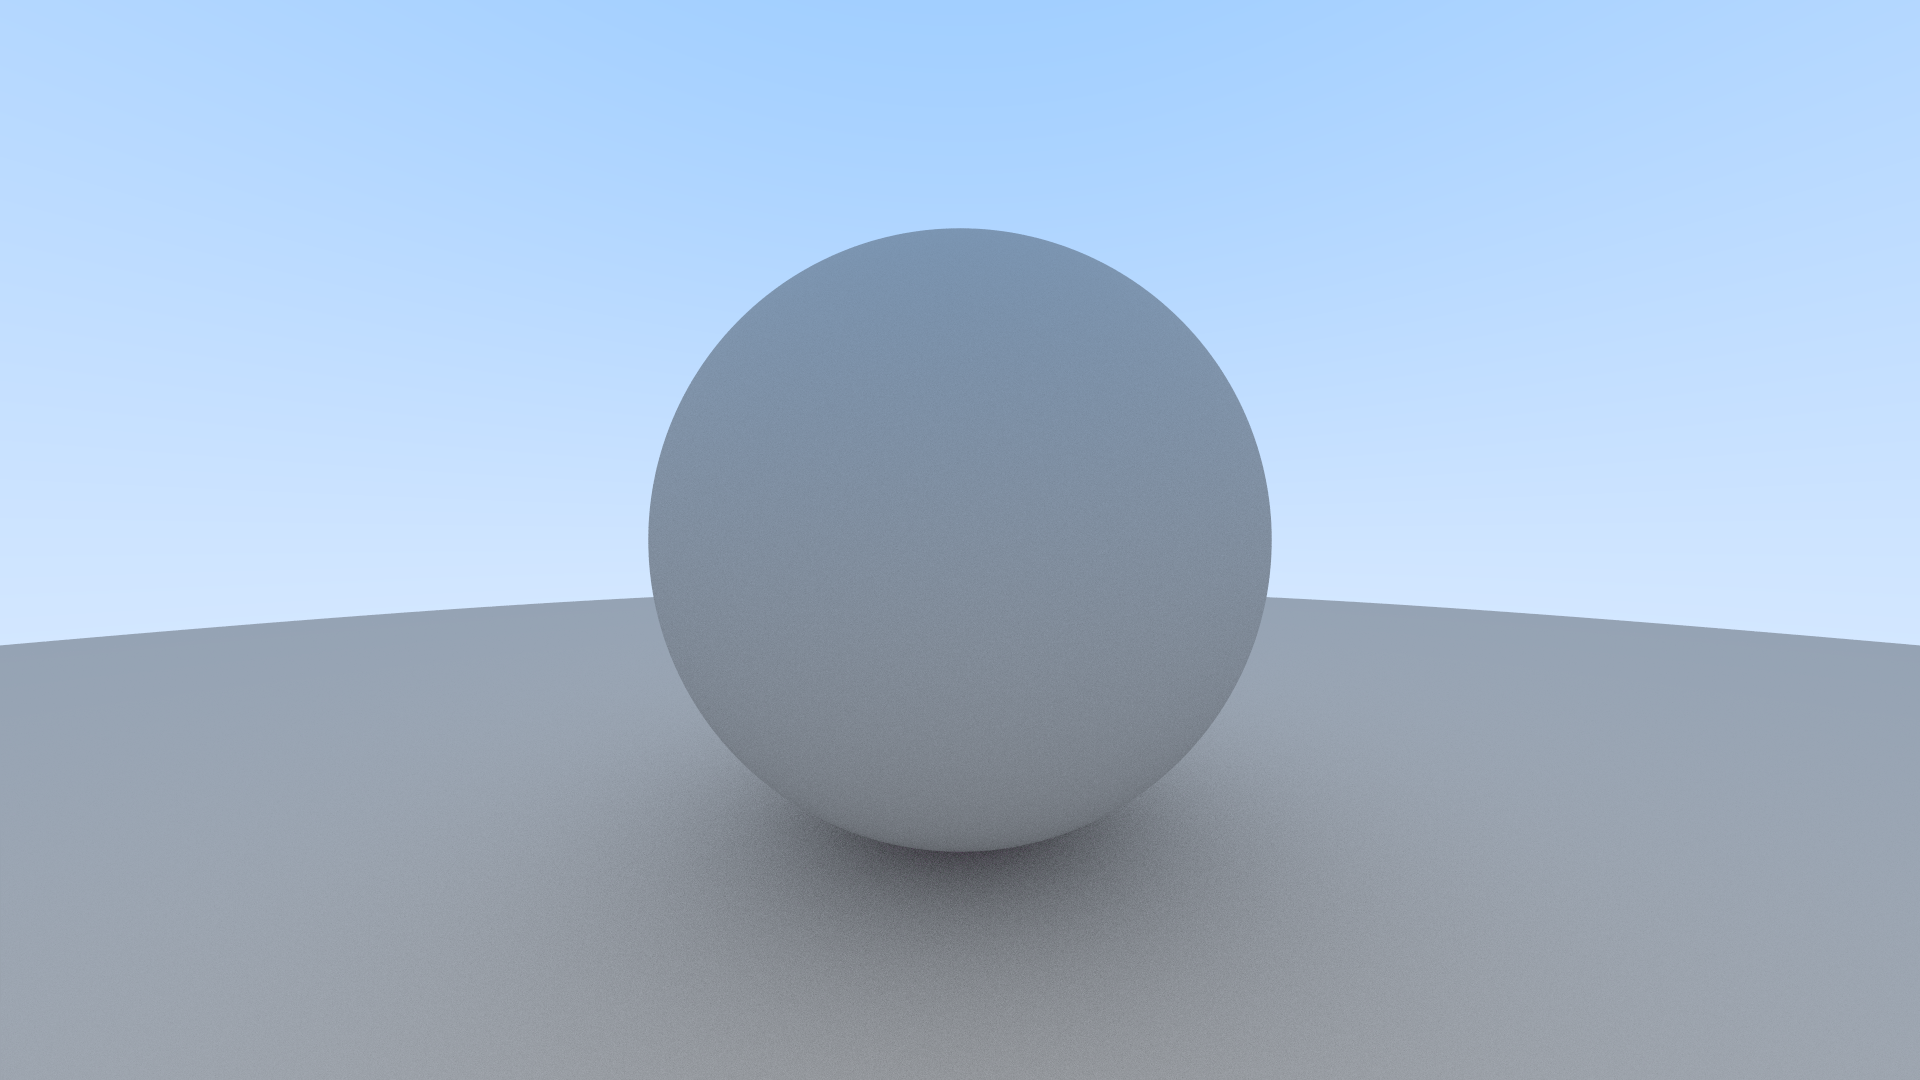
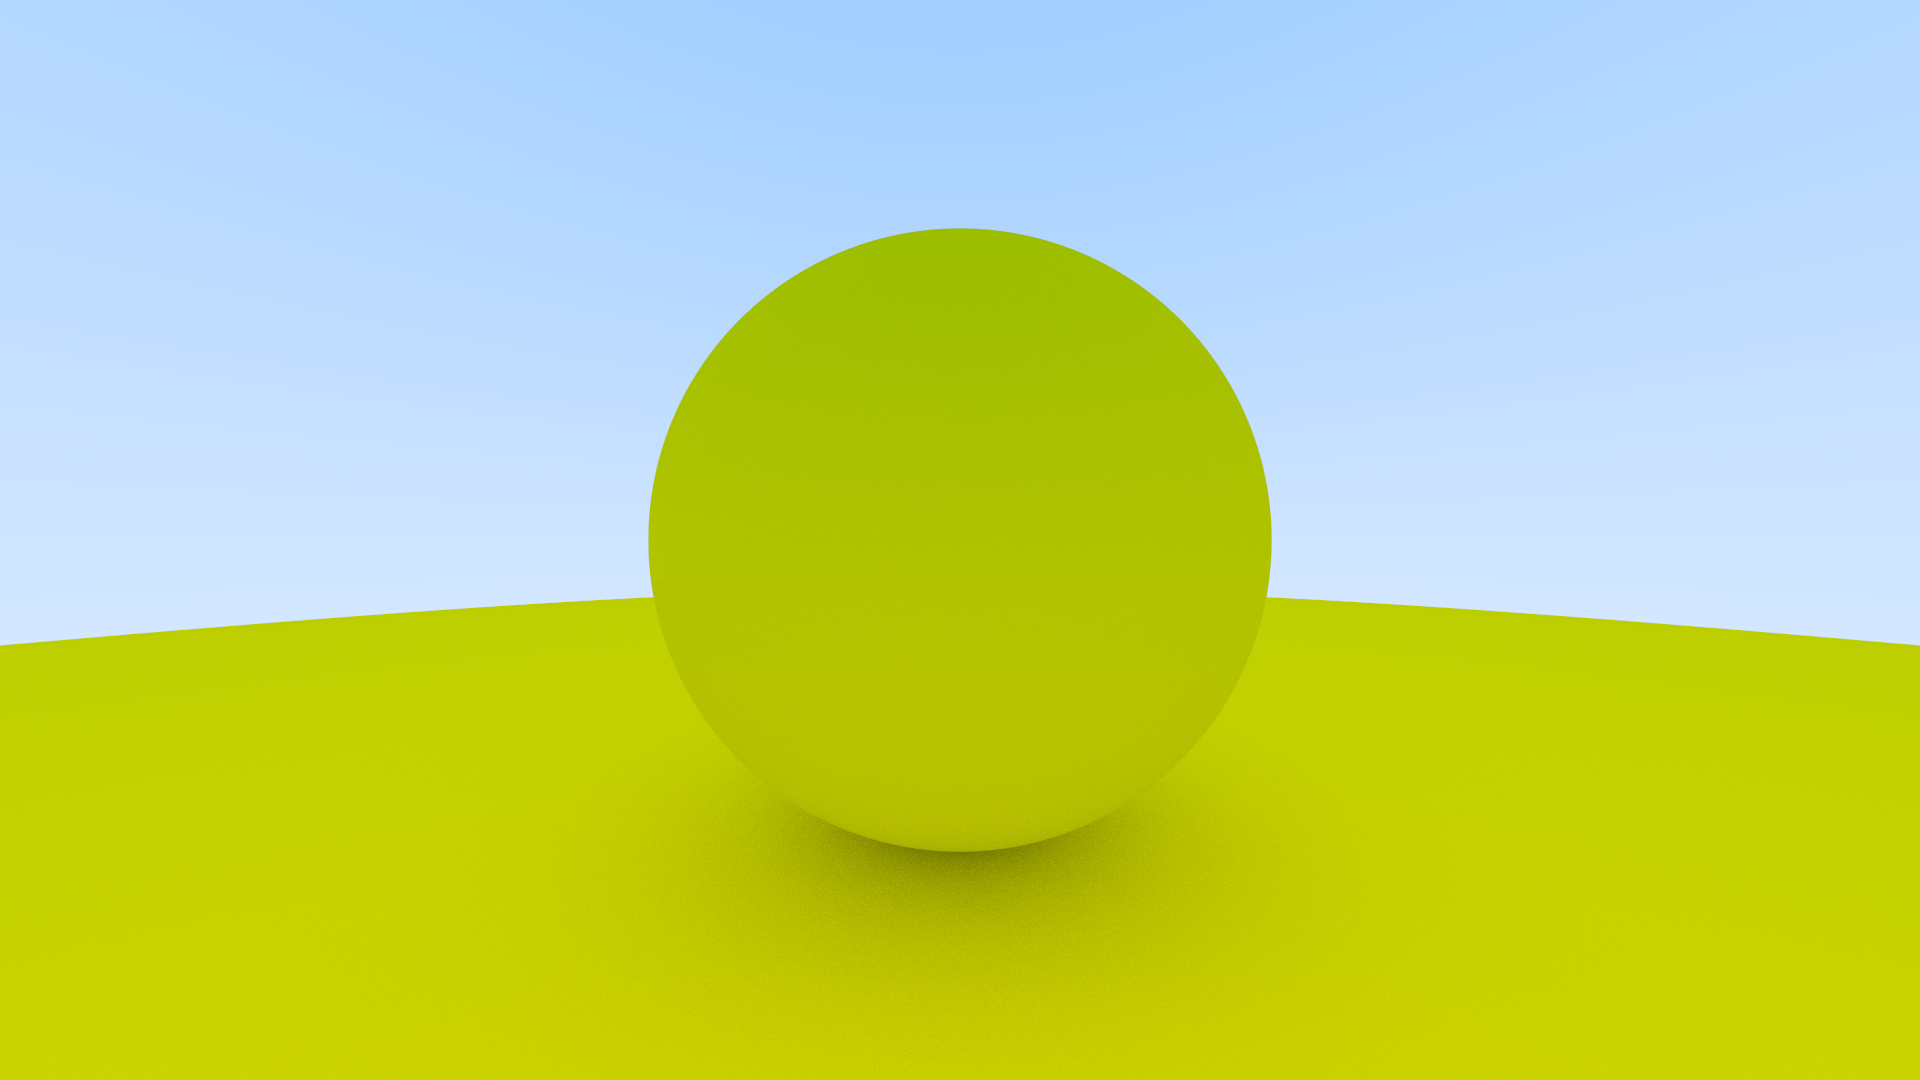
working

diff --git a/vexray/src/lib.rs b/vexray/src/lib.rs
@@ -40,10 +40,10 @@ fn create_demo_scene() -> scene::Scene {
     let mut scene = scene::Scene::new();
     
     let diffuse_mat_1 = scene.register_material(scene::material::Material::Diffuse(glam::vec3(0.8, 0.8, 0.0)));
-    let metal_mat_1 = scene.register_material(scene::material::Material::Metal(glam::vec3(0.8, 0.8, 0.0), 0.25));
+    let diffuse_mat_2 = scene.register_material(scene::material::Material::Diffuse(glam::vec3(0.8, 0.8, 0.0)));
 
     let sphere_1 = scene::shape::Shape::Sphere(glam::vec3(0.0, 0.0, -1.0), 0.5, diffuse_mat_1);
-    let sphere_2 = scene::shape::Shape::Sphere(glam::vec3(0.0, -100.5, -1.0), 100.0, diffuse_mat_1);
+    let sphere_2 = scene::shape::Shape::Sphere(glam::vec3(0.0, -100.5, -1.0), 100.0, diffuse_mat_2);
 
     scene.register_shape(sphere_1);
     scene.register_shape(sphere_2);

diff --git a/vexray/src/renderer/scene.rs b/vexray/src/renderer/scene.rs
@@ -32,7 +32,6 @@ impl KernelScene {
     }
 
     pub fn spheres_as_wgsl_bytes(&self) -> encase::internal::Result<Vec<u8>> {
-        dbg!(&self.spheres);
         let mut buffer = encase::StorageBuffer::new(Vec::new());
         buffer.write(&self.spheres).unwrap();
         return Ok(buffer.into_inner());

diff --git a/vexray/src/renderer/mod.rs b/vexray/src/renderer/mod.rs
@@ -14,6 +14,8 @@ pub mod shapes;
 pub mod scene;
 
 pub async fn render(config: &KernelConfig, scene: &KernelScene) -> Result<Vec<u8>, ()> {
+    dbg!(&scene);
+
     info!("Render start");
 
     let gpu = Gpu::new().await;

diff --git a/vexray/src/scene/mod.rs b/vexray/src/scene/mod.rs
@@ -68,8 +68,6 @@ impl From<Scene> for KernelScene {
             }
         }
 
-        dbg!(&kernel_scene);
-
         return kernel_scene;
     }
 }
